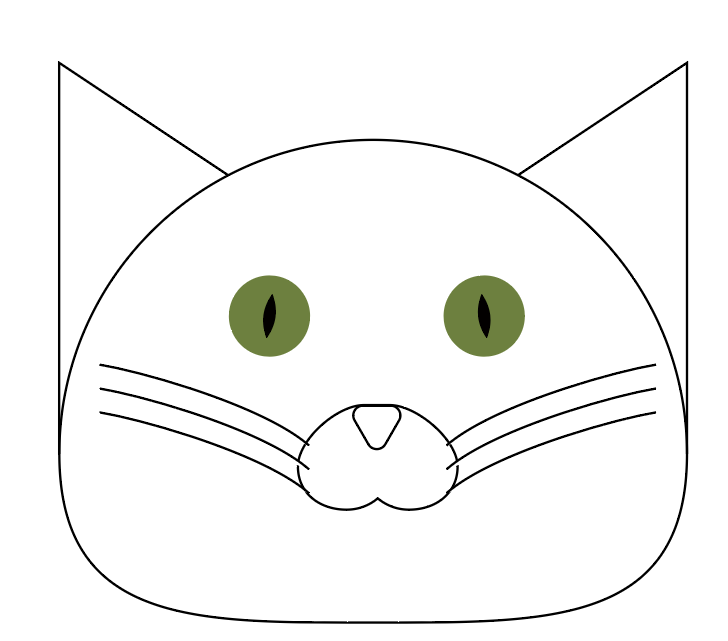
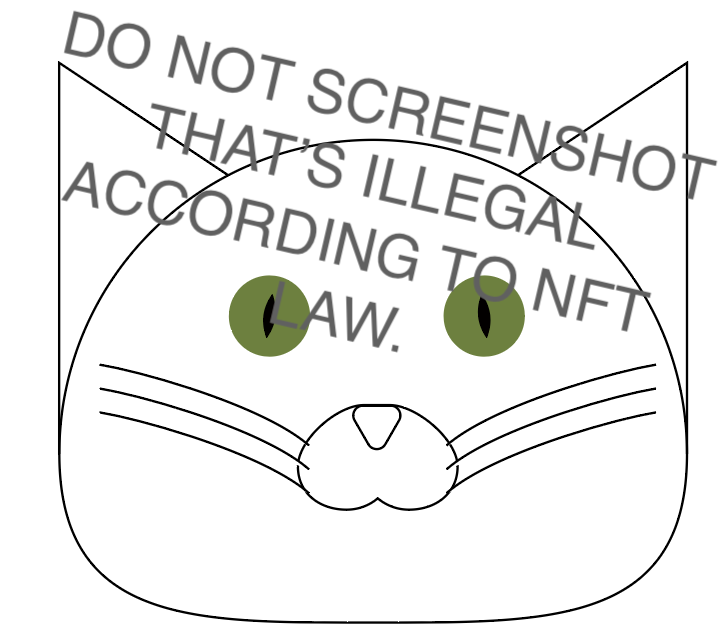
More background pls

Changed region(s): [[0.0907, 0.0, 0.9973, 0.5304], [0.3626, 0.4368, 0.544, 0.5616]]

diff --git a/docs/index.html b/docs/index.html
@@ -1,9 +1,17 @@
 <!-- THIS CODE IS SECRET YOU ARE NOT ALLOWED TO LOOK AT IT -->
 <html>
 <head>
+	<!-- THIS ICON IS PROTECTED BY NFT LAW DO NOT SCREENSHOT, THAT'S ILLEGAL!!!!!! -->
 	<link rel="icon" type="image/x-icon" href="images/icon.png">
+	<title>ReVeNUe CoOOL</title>
 </head>
 <style>
+	body {
+  background-image: url("images/background.jpg");
+  background-size: 100px;
+  background-repeat: repeat;
+
+}
 .content {
   max-width: 500px;
   margin: auto;
@@ -53,5 +61,11 @@ blink {
 
     <br><br><br>
     <div><img src="images/dancingbaby.gif" width="200"></div>
+    <br><br><br>
+    <br><br><br>
+    <br><br><br>
+    <br><br><br>
+    <br><br><br>
+    <p><font size="-10">send help, pls</font></p>
 </body>
 </html>
